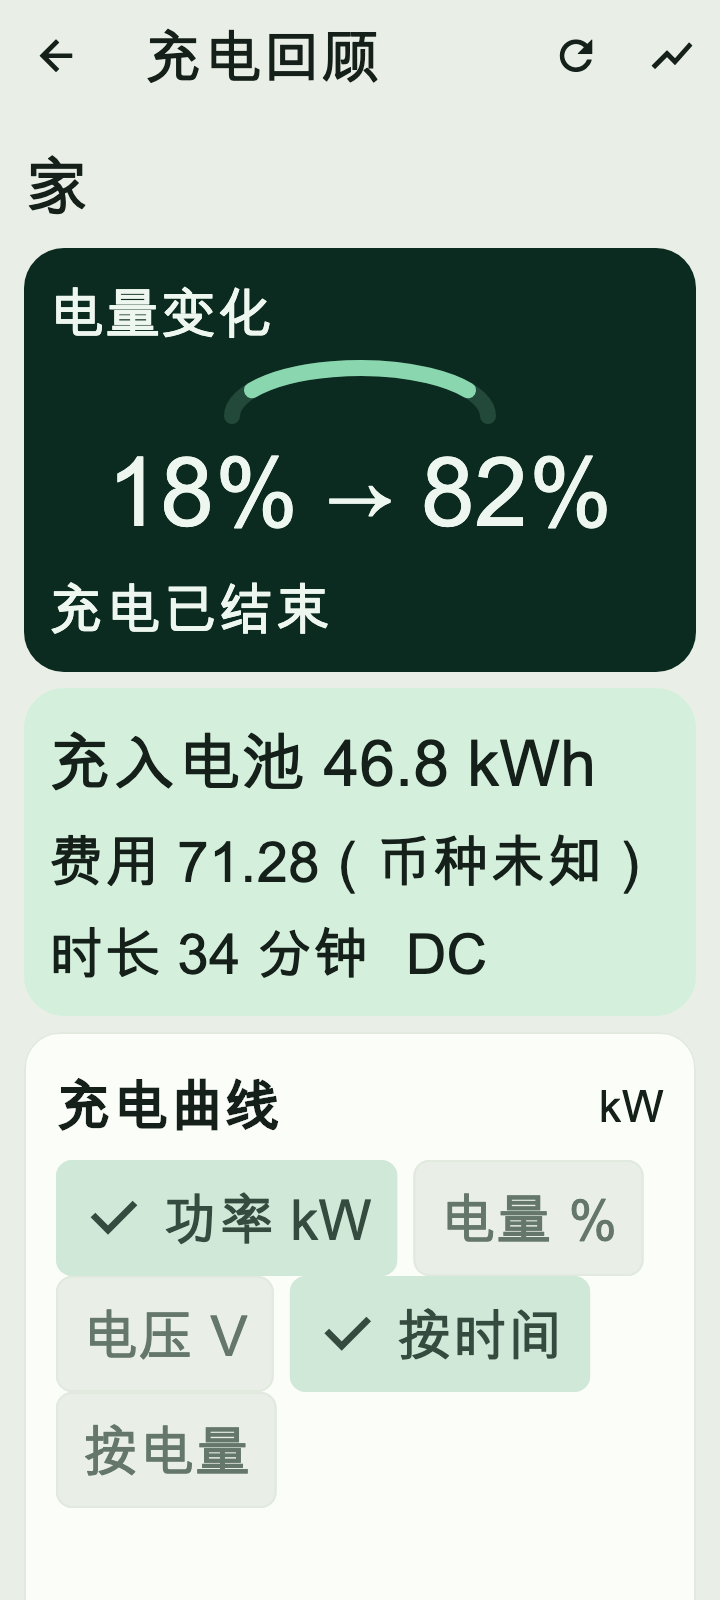
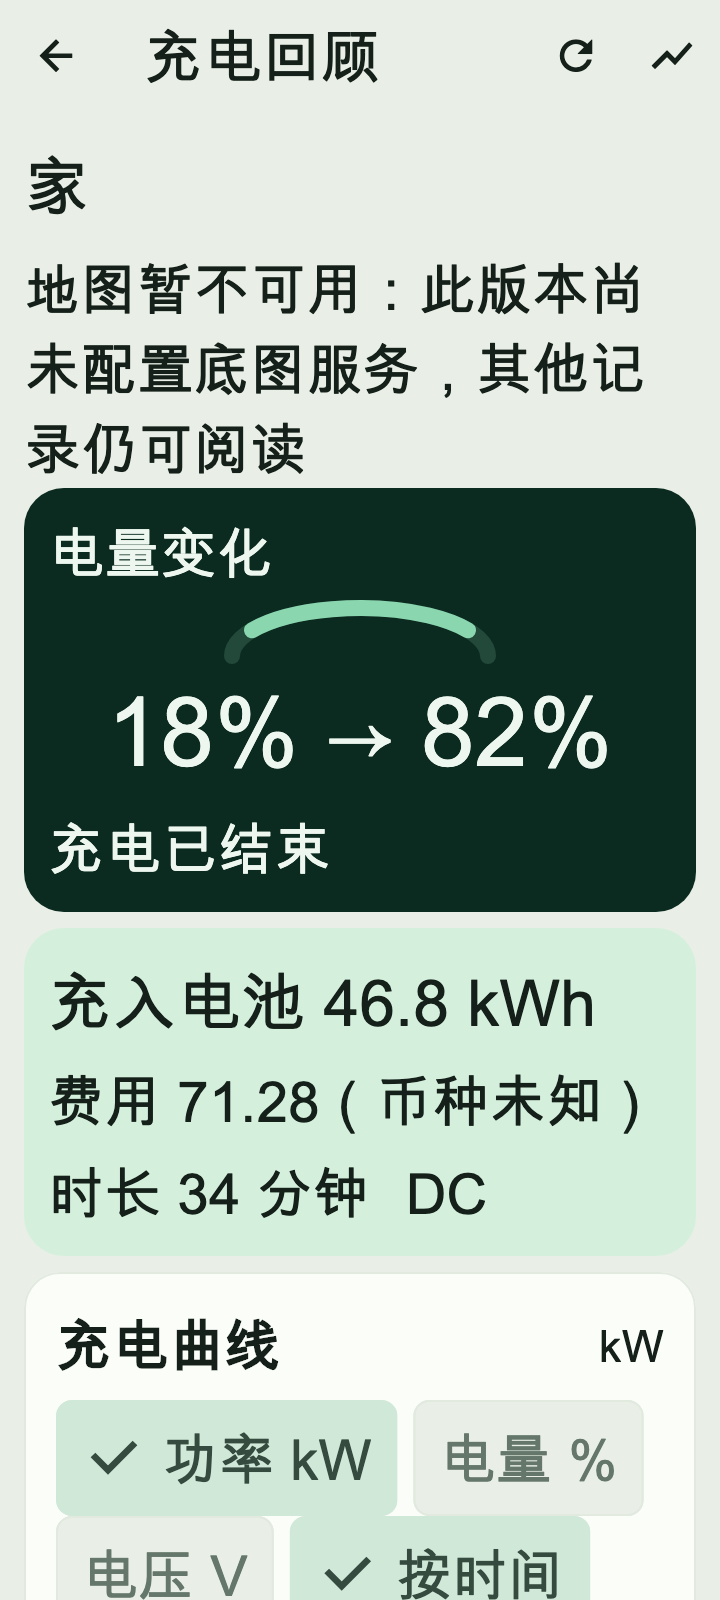
docs: record charging map review fixes and refreshed evidence

diff --git a/docs/implementation/collage-charging-detail.md b/docs/implementation/collage-charging-detail.md
@@ -2,7 +2,7 @@
 
 2026-10-30。本地实现，以 GitHub #13 的 C05 增量、Spec #1 2026-10-30 章节、ADR 0001 和原型 C chargeDetail 为依据；原 A 图册仅保留历史意义。
 
-详情顺序为地点 → 深色 SOC 电池弧 → 入电/费用/时长结果 → 实际功率/电量曲线 → 两侧能量 → 过程数据说明、账目、环境和更多信息。复用 `collage.dart` 湖畔颜色；SOC 弧只绘制两端均已知的区间，缺失不补零；文本端点随系统字号排版。地点契约仅有地名/地址/围栏，未新增坐标或合成正式地图。加热状态和原始过程口径默认折叠，可展开核查。
+详情顺序为地点图 → 深色 SOC 电池弧 → 入电/费用/时长结果 → 实际功率/电量曲线 → 两侧能量 → 过程数据说明、账目、环境和更多信息。复用 `collage.dart` 湖畔颜色；SOC 弧只绘制两端均已知的区间，缺失不补零；文本端点随系统字号排版。冻结地点契约已有 lat/lon；复用 CandidateMap、既有供应商/CRS 配置及专用瓦片客户端展示单点图。未配置、未核准 CRS、缺坐标和瓦片失败沿用已有降级，保留 SOC 与曲线。加热状态和原始过程口径默认折叠，可展开核查。
 
 未改请求、契约、能力声明、缓存、币种、车辆归属或后端；power/soc、扩展采样、按时间/电量切换和点读继续复用。两侧能量分别记录，不相加、不推导损耗率。大字结果自动换行，不限制 tile 高度。
 
@@ -25,3 +25,7 @@ MILEAF_FLUTTER_SDK=/Users/milkyway/Public/DevHub/Codes/Personal/Mileaf/MileafMob
 ## 待验与边界
 
 本票未做双端构建（交由 #17 集成）、真机手势/读屏、真实站点/地图/Grafana 或性能外部验收；用户视觉验收保留待验。不推送、不部署、不关闭 issue。不修改原工作区已有脏文档及外部符号链接仓库。
+
+## 审查修复
+
+Spec P2 地点图缺失：App＋可控 HTTP 红测先因地图状态0命中失败，接入后通过。原定向32项通过，追加正常单点/缺坐标/瓦片失败3项通过，瓦片不带站点认证，SOC和功率可读。实际渲染2项通过，重新生成24张业务状态图并增加12张地图状态图；透明测试瓦片只验证定位布局，不代表真实底图。目视检查正常浅色首屏，地图、SOC和结果可读。用户视觉与外部验收待验，N=0，native build=0。

diff --git a/docs/implementation/collage-integration.md b/docs/implementation/collage-integration.md
@@ -35,3 +35,10 @@
 - C 图册使用各 `collage*_render_test.dart`，传 `MILEAF_RENDER_OUTPUT=docs/implementation/collage-renders/<章节目录>` 与 `MILEAF_RENDER_FONT=/System/Library/Fonts/Supplemental/Arial Unicode.ttf`；目录与命令见各 collage 切片实施记录。
 
 [provenance.json](collage-renders/provenance.json) 记录来源提交、全部 lib/test 源文件、清单/锁文件、字体和280图片的 SHA256；原工作区未提交 Spec/ADR/prototype/style 只读计算指纹，未复制或覆盖用户设计文件。集成基线在交付前复核仍为4471729。双轴 code-review 由 merger 在合并后统一执行，本记录不提前宣称审查通过。
+
+## 本轮双轴审查与修复
+
+- Standards：0硬性违规，1项P3重复PNG保存。小型helper统一异常检查、pixelRatio2保存及dispose，11入口场景和数据保留；range/parking实际渲染2项通过，详情实际渲染2项通过。
+- Spec：1项P2缺充电地点图。现已复用冻结lat/lon与CandidateMap、现有配置，不改契约/API/供应商，纠正文档。App红绿及3条地图路径通过。详情36张图片更新来源，其余切片图片保留原来源。
+- 最终VMservice真实Timeline完整回归256通过、17渲染测试跳过；格式化、静态分析、diff检查通过。修复后交既有reviewer仅复核原发现，此处不提前声称复核通过。
+- 用户视觉、真机、真实站点/Grafana、真实地图/CRS/网络及设备性能仍待验；N=0、native build=0。不推送、部署或关闭票。
